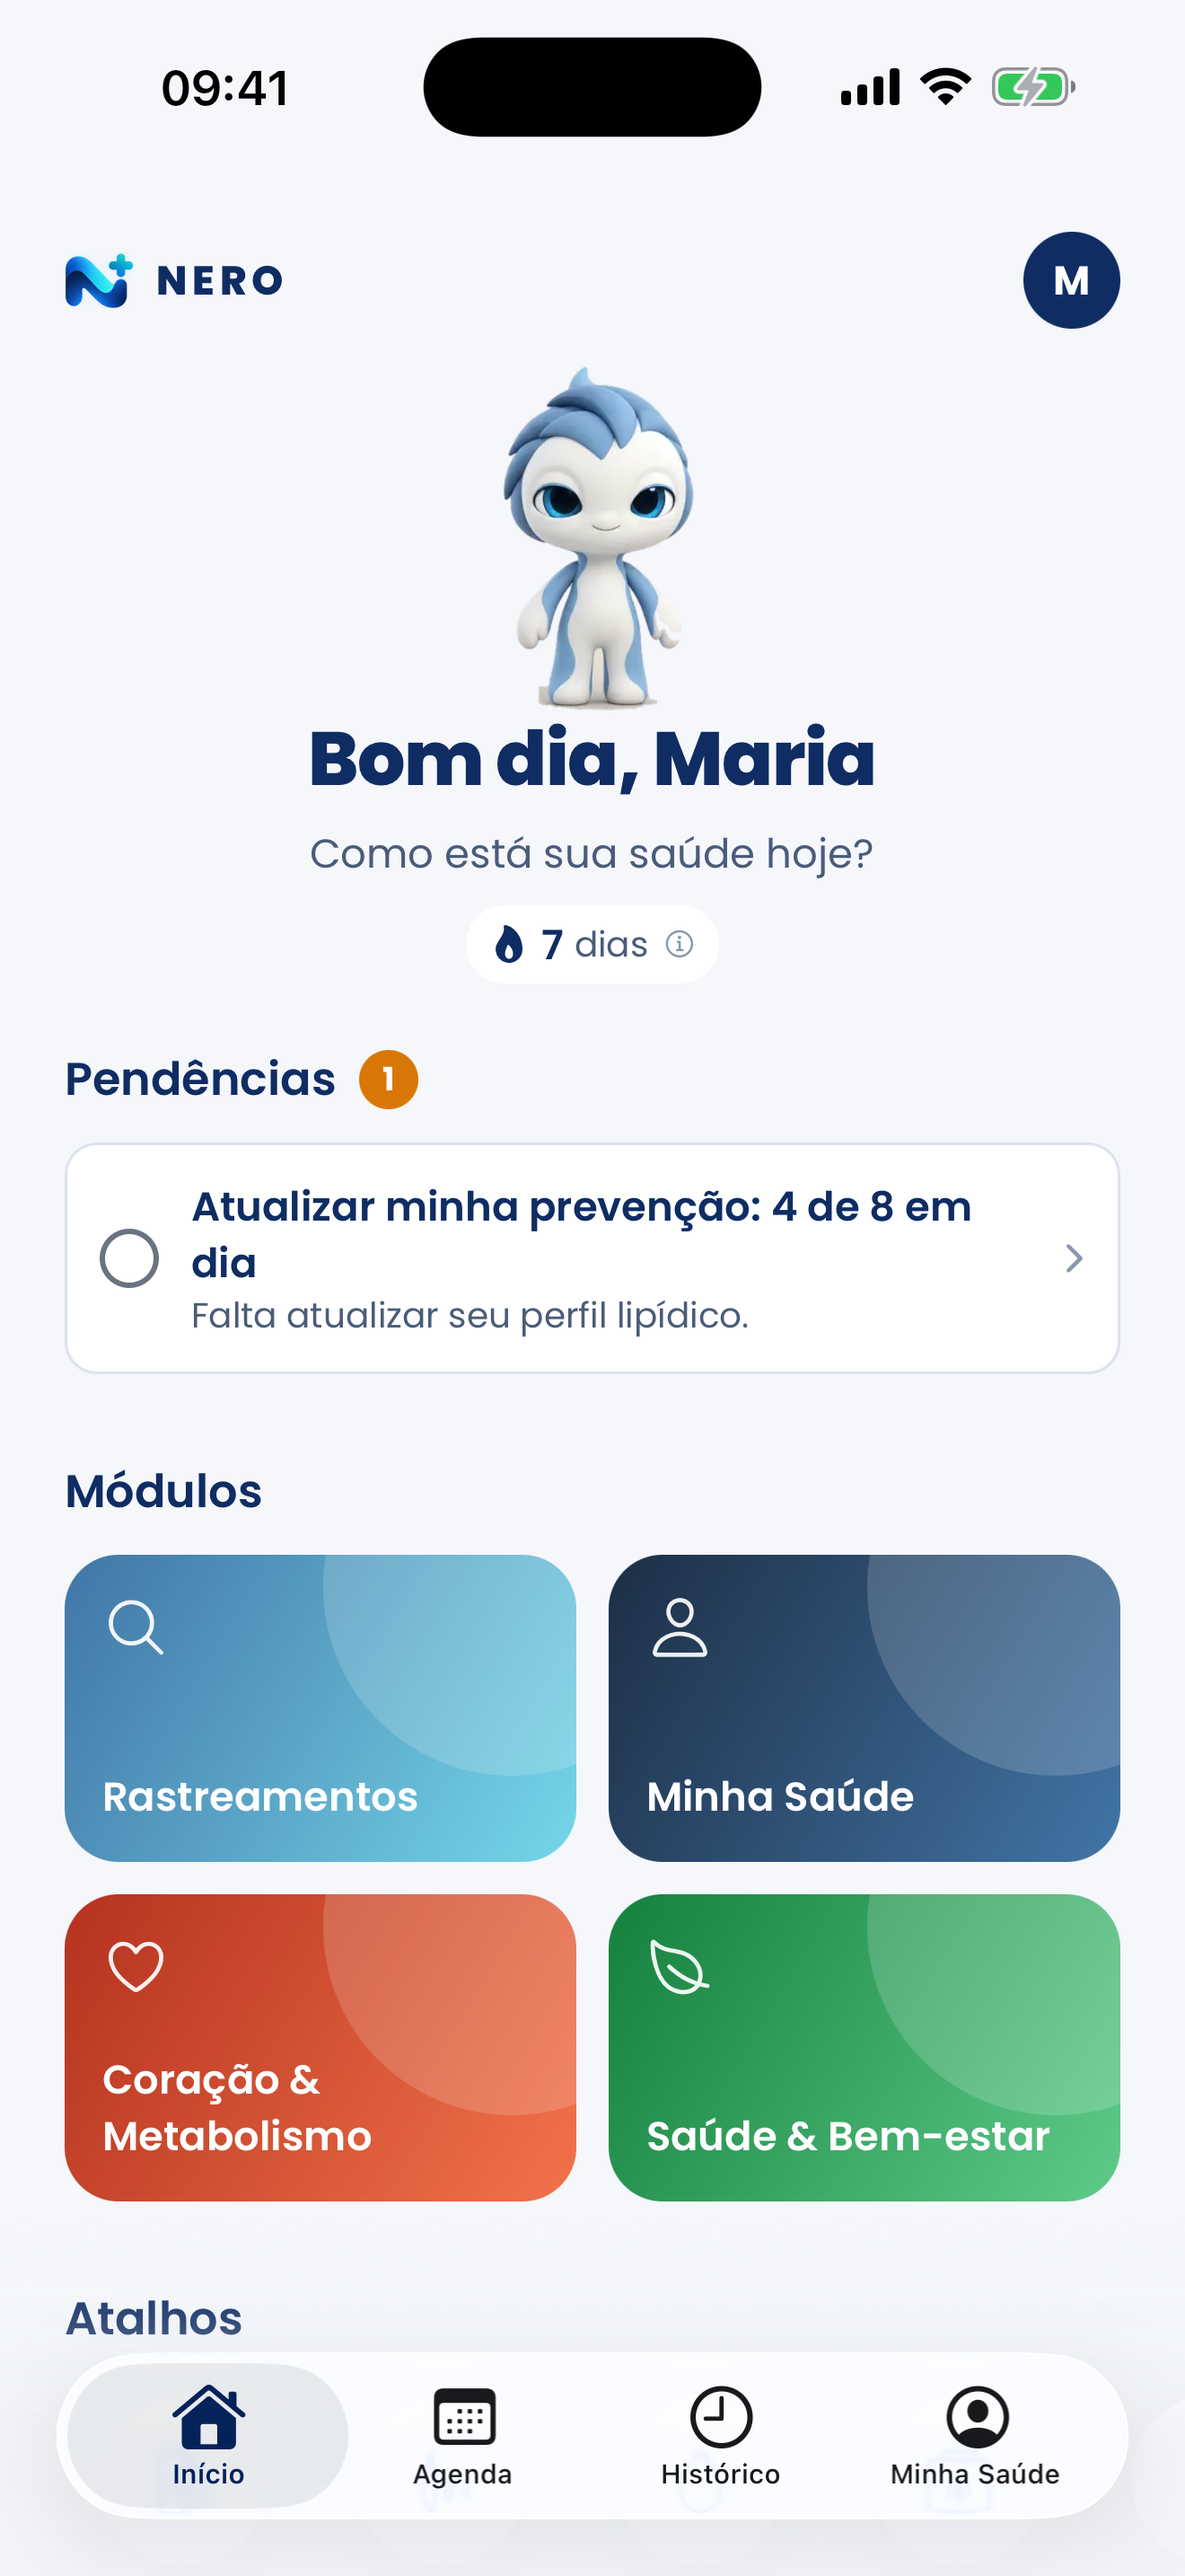
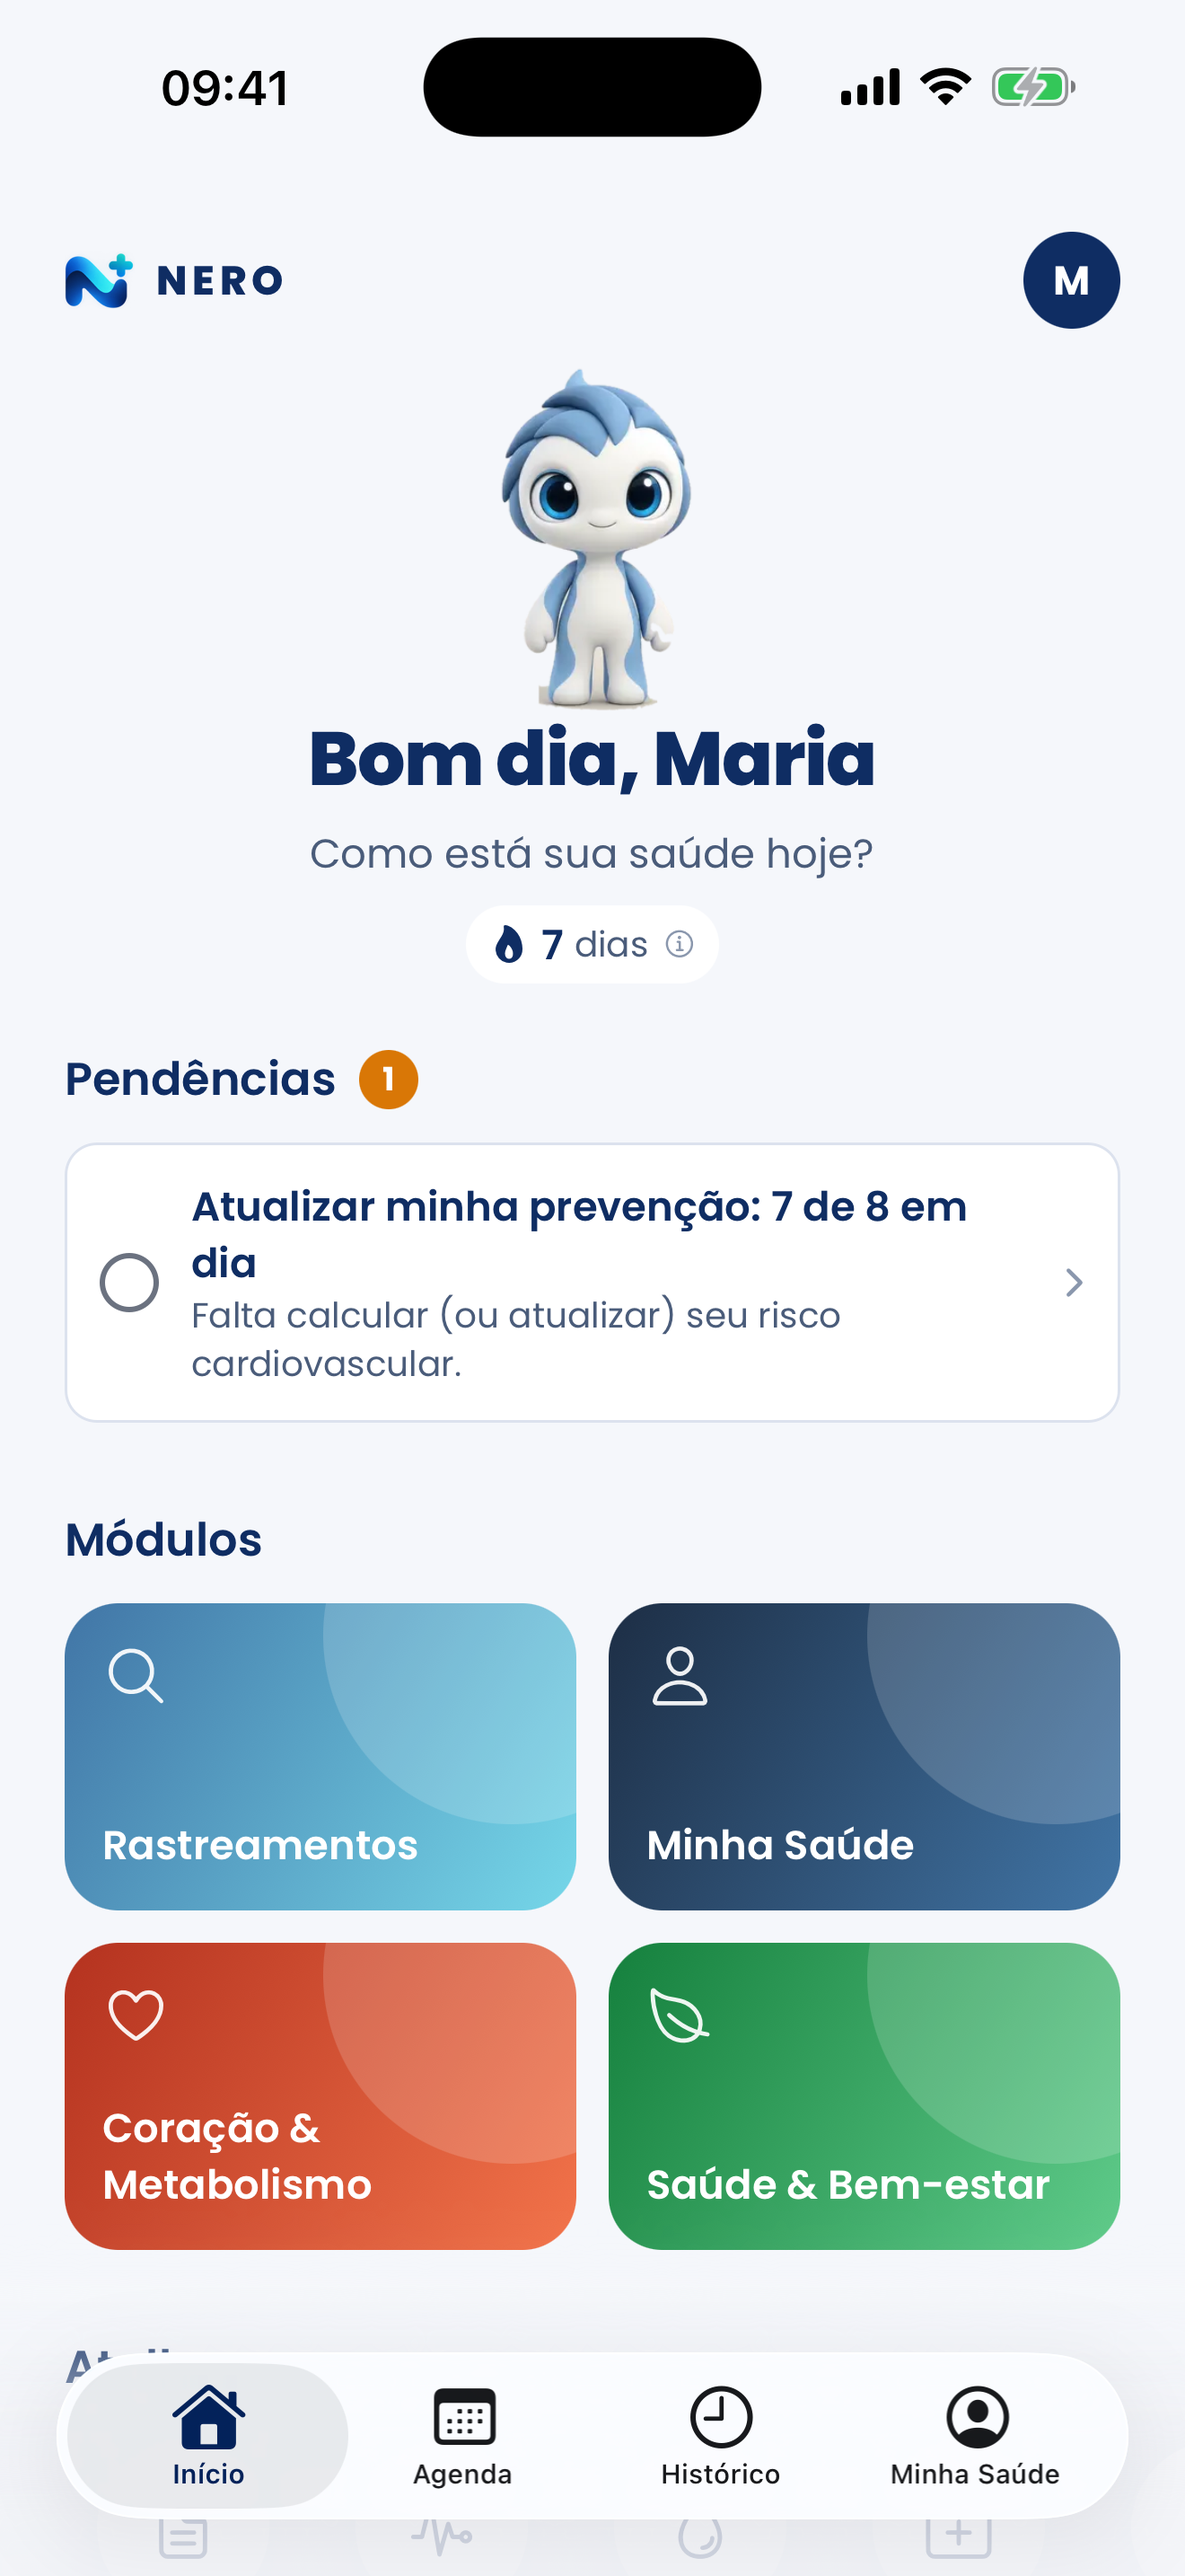
fix: comemoração da sequência não repete ao abrir a Home; nomes dos rastreamentos sem maiúsculas erradas; atividade física conta no check-up
- useSequencia só decide o marco com o perfil carregado (antes o marco parecia 0 e o modal voltava)
- nomeCurto: "Câncer de mama" → "Mama", "Câncer do colo do útero" → "Colo do útero"
- montarFontesCheckup lê a última atividade; frase e rota apontam para Saúde & Bem-estar
- capturas da App Store refeitas com as correções

diff --git a/src/core/bemestar/__tests__/useSequencia.test.tsx b/src/core/bemestar/__tests__/useSequencia.test.tsx
@@ -10,12 +10,13 @@ import { Text } from 'react-native';
 let mockMarcos: number[] = [];
 let mockMarcoNoPerfil = 0;
 let mockRecargasPerfil = 0;
+let mockPerfilCarregado = true;
 
 jest.mock('@core/sessao/SessaoProvider', () => ({ useSessao: () => ({ sessao: { user: { id: 'u1' } }, carregando: false, online: true, sair: jest.fn() }) }));
 jest.mock('@core/perfil/usePerfil', () => ({
   usePerfil: () => ({
-    perfil: { marcoSequenciaComemorado: mockMarcoNoPerfil },
-    carregando: false,
+    perfil: mockPerfilCarregado ? { marcoSequenciaComemorado: mockMarcoNoPerfil } : null,
+    carregando: !mockPerfilCarregado,
     recarregar: async () => { mockRecargasPerfil++; },
   }),
 }));
@@ -33,7 +34,7 @@ function Sonda() {
   return <Text>{`${s.sequencia}/${s.total}/${s.marco ?? '-'}`}</Text>;
 }
 
-beforeEach(() => { mockMarcos = []; mockMarcoNoPerfil = 0; mockRecargasPerfil = 0; });
+beforeEach(() => { mockMarcos = []; mockMarcoNoPerfil = 0; mockRecargasPerfil = 0; mockPerfilCarregado = true; });
 
 it('conta a sequência e grava o marco de 3 dias uma única vez', async () => {
   let arvore: any;
@@ -48,4 +49,19 @@ it('quem já comemorou o marco não grava de novo', async () => {
   await act(async () => { create(<Sonda />); });
   for (let i = 0; i < 3; i++) await act(async () => { await new Promise((r) => setTimeout(r, 20)); });
   expect(mockMarcos).toEqual([]);
+});
+
+// Regressão de 28/10: a Home monta com o perfil ainda carregando. Sem esperar por ele, o marco
+// comemorado parecia 0 e a comemoração voltava a cada abertura da Home.
+it('espera o perfil carregar antes de decidir se há marco novo', async () => {
+  mockMarcoNoPerfil = 3;
+  mockPerfilCarregado = false;
+  let arvore: any;
+  await act(async () => { arvore = create(<Sonda />); });
+  for (let i = 0; i < 3; i++) await act(async () => { await new Promise((r) => setTimeout(r, 20)); });
+  mockPerfilCarregado = true;
+  await act(async () => { arvore.update(<Sonda />); });
+  for (let i = 0; i < 3; i++) await act(async () => { await new Promise((r) => setTimeout(r, 20)); });
+  expect(mockMarcos).toEqual([]);
+  expect(arvore.toJSON().children[0]).toBe('3/3/-');
 });

diff --git a/src/core/cardio/resumoHome.ts b/src/core/cardio/resumoHome.ts
@@ -22,13 +22,14 @@ const ROTULO_MOMENTO_CURTO: Record<string, string> = { jejum: 'em jejum', antes_
 /** Fontes do check-up (§24) a partir do banco. */
 export async function montarFontesCheckup(userId: string, perfil: PerfilSaude): Promise<FontesCheckup> {
   const desde7 = new Date(Date.now() - 7 * DIA_MS).toISOString();
-  const [casuais, sessoes, exames, gli, peso, risco] = await Promise.all([
+  const [casuais, sessoes, exames, gli, peso, risco, atividade] = await Promise.all([
     medidasRepo.listarPA(userId, { sessaoId: null, desde: desde7 }),
     sessoesRepo.listarSessoes(userId),
     ultimoPorTipo(userId, ['colesterol_total', 'hdl', 'ldl', 'creatinina', 'tfg', 'hba1c']),
     listarGlicemia(userId, { limite: 1 }),
     supabase.from('medidas').select('medido_em').eq('user_id', userId).eq('tipo', 'peso').order('medido_em', { ascending: false }).limit(1).maybeSingle(),
     supabase.from('riscos_cv').select('calculado_em').eq('user_id', userId).order('calculado_em', { ascending: false }).limit(1).maybeSingle(),
+    supabase.from('atividades').select('inicio').eq('user_id', userId).order('inicio', { ascending: false }).limit(1).maybeSingle(),
   ]);
   const mrpa = sessoes.find((s) => s.status === 'concluida' && s.resultado?.valido);
   const lip = [exames.colesterol_total, exames.hdl, exames.ldl].filter(Boolean).map((e) => e!.dataRealizacao).sort().pop() ?? null;
@@ -42,7 +43,7 @@ export async function montarFontesCheckup(userId: string, perfil: PerfilSaude): 
     glicemiaOuHba1c: gliData,
     lipidios: lip,
     renal,
-    atividadeFisica: null,
+    atividadeFisica: atividade.data?.inicio.slice(0, 10) ?? null,
     risco: risco.data?.calculado_em.slice(0, 10) ?? null,
   };
 }

diff --git a/src/modules/rastreando/componentes/CardPrograma.tsx b/src/modules/rastreando/componentes/CardPrograma.tsx
@@ -6,7 +6,7 @@ import type { PendenciaAberta } from '@core/rastreando/contexto';
 import type { Programa, ResultadoElegibilidade } from '@core/regras/tipos';
 import { CONTEUDO } from '@modules/rastreando/conteudo';
 import { Colors, Radius, Shadows, Spacing, StatusBadge, Typography } from '@ui/index';
-import { dataBr, NIVEL_PENDENCIA, STATUS_UI } from './statusUI';
+import { dataBr, NIVEL_PENDENCIA, nomeCurto, STATUS_UI } from './statusUI';
 
 interface Props {
   programa: Programa;
@@ -40,7 +40,7 @@ export function CardPrograma({ programa, avaliacao, pendencia, sintomas, onPress
         <Ionicons name={c.icone as keyof typeof Ionicons.glyphMap} size={30} color="rgba(255,255,255,0.92)" />
       </LinearGradient>
       <View style={styles.corpo}>
-        <Text style={styles.titulo} numberOfLines={1}>{c.titulo.replace('Câncer ', '').replace(/^d[oa] /, '')}</Text>
+        <Text style={styles.titulo} numberOfLines={1}>{nomeCurto(c.titulo)}</Text>
         <StatusBadge nivel={badge.nivel} label={badge.rotulo} />
         <Text style={styles.linha} numberOfLines={2}>{linha}</Text>
       </View>
@@ -52,6 +52,6 @@ const styles = StyleSheet.create({
   card: { flex: 1, backgroundColor: Colors.surface, borderRadius: Radius.bloco, overflow: 'hidden', borderWidth: 1, borderColor: Colors.border, ...Shadows.card },
   capa: { height: 72, alignItems: 'center', justifyContent: 'center' },
   corpo: { padding: Spacing.md, gap: 6, minHeight: 96 },
-  titulo: { ...Typography.subheading, color: Colors.textPrimary, textTransform: 'capitalize' },
+  titulo: { ...Typography.subheading, color: Colors.textPrimary },
   linha: { ...Typography.caption, color: Colors.textSecondary },
 });

diff --git a/src/core/bemestar/useSequencia.ts b/src/core/bemestar/useSequencia.ts
@@ -12,11 +12,15 @@ import { hojeLocalISO } from './useAtividades';
  * O marco já comemorado fica também num ref: depois de gravar não dá para esperar o perfil
  * recarregar para saber disso, e depender da identidade do `recarregar` do perfil põe o efeito
  * em laço (foi o que o teste de regressão pegou).
+ *
+ * Só decide o marco com o perfil carregado: antes disso o marco comemorado parece 0 e a
+ * comemoração voltava a cada vez que a Home montava (28/10).
  */
 export function useSequencia() {
   const { sessao } = useSessao();
   const userId = sessao?.user.id;
   const { perfil } = usePerfil();
+  const perfilPronto = perfil != null;
   const doPerfil = perfil?.marcoSequenciaComemorado ?? 0;
   const [resumo, setResumo] = useState<{ sequencia: number; total: number }>({ sequencia: 0, total: 0 });
   const [marco, setMarco] = useState<MarcoSequencia | null>(null);
@@ -28,6 +32,7 @@ export function useSequencia() {
       const dias = await listarDiasAtivos(userId);
       const r = resumoSequencia(dias, hojeLocalISO());
       setResumo(r);
+      if (!perfilPronto) return;
       const base = Math.max(doPerfil, comemorado.current);
       const novo = marcoSequencia(r.sequencia, base);
       if (novo != null) {
@@ -38,7 +43,7 @@ export function useSequencia() {
     } catch {
       // a sequência é enfeite: falha aqui não pode atrapalhar a Home
     }
-  }, [userId, doPerfil]);
+  }, [userId, perfilPronto, doPerfil]);
 
   useEffect(() => { recarregar(); }, [recarregar]);
 

diff --git a/src/core/regras/cardio/checkup.ts b/src/core/regras/cardio/checkup.ts
@@ -13,7 +13,7 @@ export function avaliarCheckup(f: FontesCheckup, perfil: { temDiabetes: boolean 
     { chave: 'glicemia_hba1c', rotulo: 'Glicemia / HbA1c', atualizado: glicemiaNaoSeAplica || ok('hba1c', f.glicemiaOuHba1c), naoSeAplica: glicemiaNaoSeAplica || undefined, frase: glicemiaNaoSeAplica ? 'Não se aplica: sem diabetes no perfil.' : 'Falta atualizar sua hemoglobina glicada ou glicemia.' },
     { chave: 'lipidios', rotulo: 'Perfil lipídico', atualizado: ok('lipidios', f.lipidios), frase: 'Falta atualizar seu perfil lipídico.' },
     { chave: 'renal', rotulo: 'Função renal', atualizado: ok('renal', f.renal), frase: 'Falta atualizar sua creatinina ou TFG.' },
-    { chave: 'atividade', rotulo: 'Atividade física', atualizado: ok('peso', f.atividadeFisica), frase: 'Falta registrar sua atividade física (chega na próxima fase).' },
+    { chave: 'atividade', rotulo: 'Atividade física', atualizado: ok('peso', f.atividadeFisica), frase: 'Falta registrar sua atividade física em Saúde & Bem-estar.' },
     { chave: 'risco', rotulo: 'Risco cardiovascular', atualizado: ok('risco', f.risco), frase: 'Falta calcular (ou atualizar) seu risco cardiovascular.' },
   ];
   return { itens, total: 8, atualizados: itens.filter((i) => i.atualizado).length };

diff --git a/app/(app)/coracao/checkup.tsx b/app/(app)/coracao/checkup.tsx
@@ -8,7 +8,7 @@ import type { ItemCheckup } from '@core/regras/cardio/tiposRisco';
 import { Colors, InternalHeader, Spacing, Typography } from '@ui/index';
 import { useAbrir } from '@core/navegacao/useVoltar';
 
-const ROTA: Record<ItemCheckup['chave'], string> = { pa: '/(app)/coracao/pressao', peso: '/(app)/coracao/risco/dados', tabagismo: '/(app)/(tabs)/minha-saude/perfil', glicemia_hba1c: '/(app)/coracao/exames/registrar', lipidios: '/(app)/coracao/exames/registrar', renal: '/(app)/coracao/exames/registrar', atividade: '/(app)/coracao', risco: '/(app)/coracao/risco' };
+const ROTA: Record<ItemCheckup['chave'], string> = { pa: '/(app)/coracao/pressao', peso: '/(app)/coracao/risco/dados', tabagismo: '/(app)/(tabs)/minha-saude/perfil', glicemia_hba1c: '/(app)/coracao/exames/registrar', lipidios: '/(app)/coracao/exames/registrar', renal: '/(app)/coracao/exames/registrar', atividade: '/(app)/bem-estar/atividade', risco: '/(app)/coracao/risco' };
 
 /** "Como está minha prevenção?" (§24): n/8 pelas janelas de C-014, sem pedir exames além dos que o módulo usa. */
 export default function Checkup() {

diff --git a/src/core/regras/cardio/__tests__/checkup.test.ts b/src/core/regras/cardio/__tests__/checkup.test.ts
@@ -24,3 +24,12 @@ test('sem diabetes: glicemia/HbA1c não se aplica e conta como atualizado', () =
   expect(g).toMatchObject({ atualizado: true, naoSeAplica: true });
   expect(r.atualizados).toBe(1);
 });
+
+test('atividade física: aponta para o registro no Bem-estar e vale pela janela de 30 dias', () => {
+  const base = { pa: { data: null, ehMrpa: false, nCasual7d: 0 }, peso: null, tabagismoAtualizadoEm: null, glicemiaOuHba1c: null, lipidios: null, renal: null, risco: null };
+  const sem = avaliarCheckup({ ...base, atividadeFisica: null }, { temDiabetes: false }, hoje, p).itens.find((i) => i.chave === 'atividade')!;
+  expect(sem.atualizado).toBe(false);
+  expect(sem.frase).toBe('Falta registrar sua atividade física em Saúde & Bem-estar.');
+  const com = avaliarCheckup({ ...base, atividadeFisica: dias(5) }, { temDiabetes: false }, hoje, p).itens.find((i) => i.chave === 'atividade')!;
+  expect(com.atualizado).toBe(true);
+});

diff --git a/src/modules/rastreando/__tests__/nomeCurto.test.ts b/src/modules/rastreando/__tests__/nomeCurto.test.ts
@@ -1,0 +1,9 @@
+import { nomeCurto } from '../componentes/statusUI';
+
+it('tira "Câncer" e a preposição, com maiúscula só na primeira letra', () => {
+  expect(nomeCurto('Câncer de mama')).toBe('Mama');
+  expect(nomeCurto('Câncer do colo do útero')).toBe('Colo do útero');
+  expect(nomeCurto('Câncer de pulmão')).toBe('Pulmão');
+  expect(nomeCurto('Câncer colorretal')).toBe('Colorretal');
+  expect(nomeCurto('Câncer de próstata')).toBe('Próstata');
+});

diff --git a/src/modules/rastreando/componentes/statusUI.ts b/src/modules/rastreando/componentes/statusUI.ts
@@ -19,3 +19,9 @@ export function dataBr(iso: string | null | undefined): string {
   if (!iso) return '';
   return `${iso.slice(8, 10)}/${iso.slice(5, 7)}/${iso.slice(0, 4)}`;
 }
+
+/** Nome do programa no card: "Câncer do colo do útero" → "Colo do útero". */
+export function nomeCurto(titulo: string): string {
+  const s = titulo.replace(/^Câncer /, '').replace(/^d[eoa] /, '');
+  return s.charAt(0).toUpperCase() + s.slice(1);
+}

diff --git a/docs/nero/PENDENCIAS.md b/docs/nero/PENDENCIAS.md
@@ -84,14 +84,18 @@
 
 ### Defeitos achados nas capturas (28/10)
 
-- [ ] **Comemoração da sequência de 7 dias reaparece toda vez que a Home abre.** Visto na conta de demonstração
+- [x] **Corrigido em 28/10 (`useSequencia` espera o perfil; teste de regressão).** Comemoração da sequência de 7 dias reaparecia toda vez que a Home abria. Visto na conta de demonstração
       com `marco_sequencia_comemorado = 7` já gravado: a cada volta à Home (e a cada abertura do app) o modal
       "Uma semana inteira de registros." surge de novo. Suspeita: `useSequencia` calcula com `doPerfil = 0`
       antes de o perfil carregar (`src/core/bemestar/useSequencia.ts`, `base = Math.max(doPerfil, …)`), e o
       `comemorado` em `useRef` se perde quando a Home remonta. Vai afetar todo usuário que chegar a 3, 7, 30 ou
       100 dias. Corrigir antes do lançamento aberto (dá para mandar por atualização pelo ar).
-- [ ] **Nomes dos rastreamentos com maiúsculas estranhas** na tela "Seus rastreamentos": "De Mama",
+- [x] **Corrigido em 28/10 (`nomeCurto`, com teste).** Nomes dos rastreamentos com maiúsculas estranhas na tela "Seus rastreamentos": "De Mama",
       "Colo Do Útero", "De Pulmão". O certo seria "Mama", "Colo do útero", "Pulmão".
+- [x] **Corrigido em 28/10 (teste em `checkup.test.ts`).** No check-up "Como está minha prevenção?", a atividade
+      física estava fixa em `null` em `montarFontesCheckup`: o item nunca ficava em dia (ninguém passava de 7/8) e
+      dizia "chega na próxima fase", embora o registro de atividade já exista. Agora lê a última atividade e
+      leva para Saúde & Bem-estar › Atividade.
 
 ### Teste no aparelho
 
